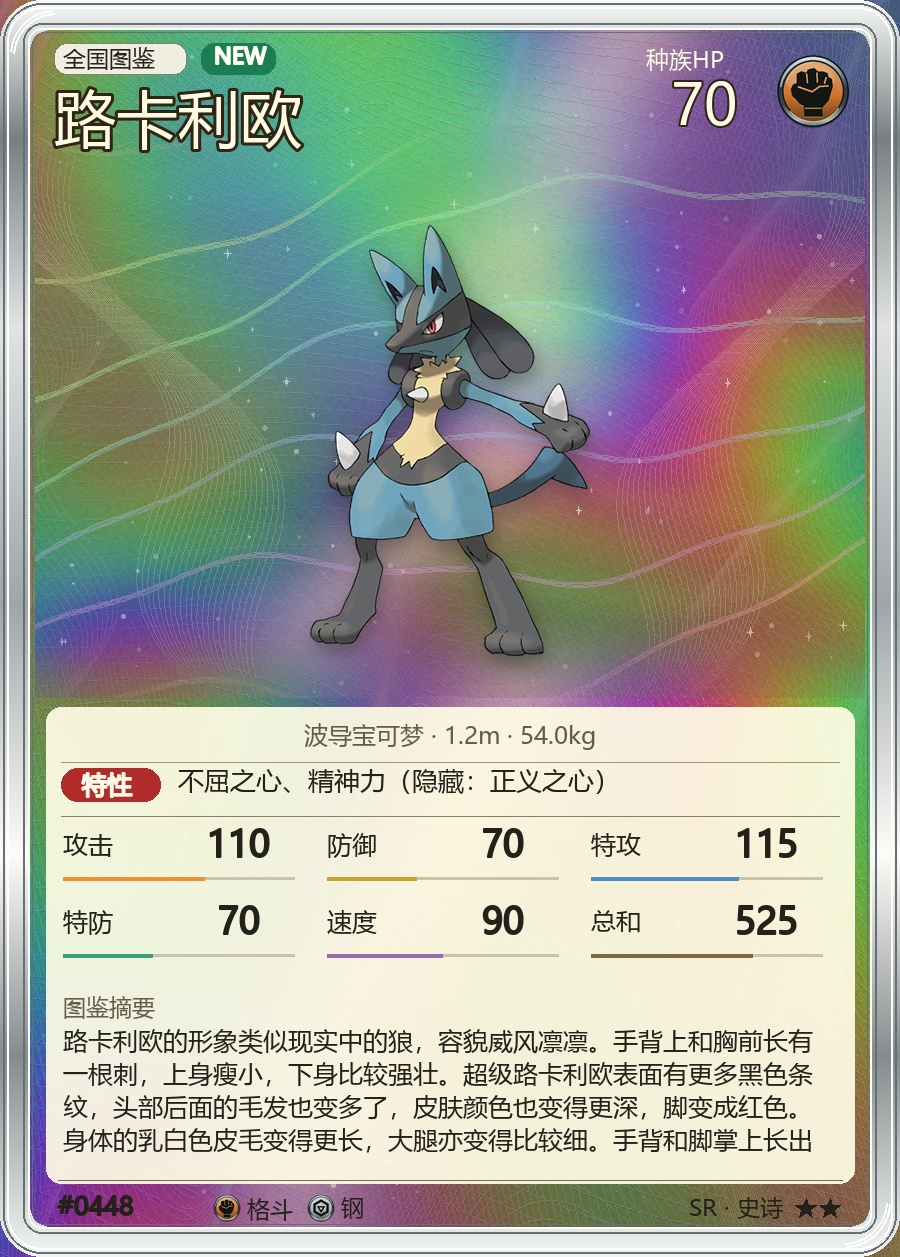
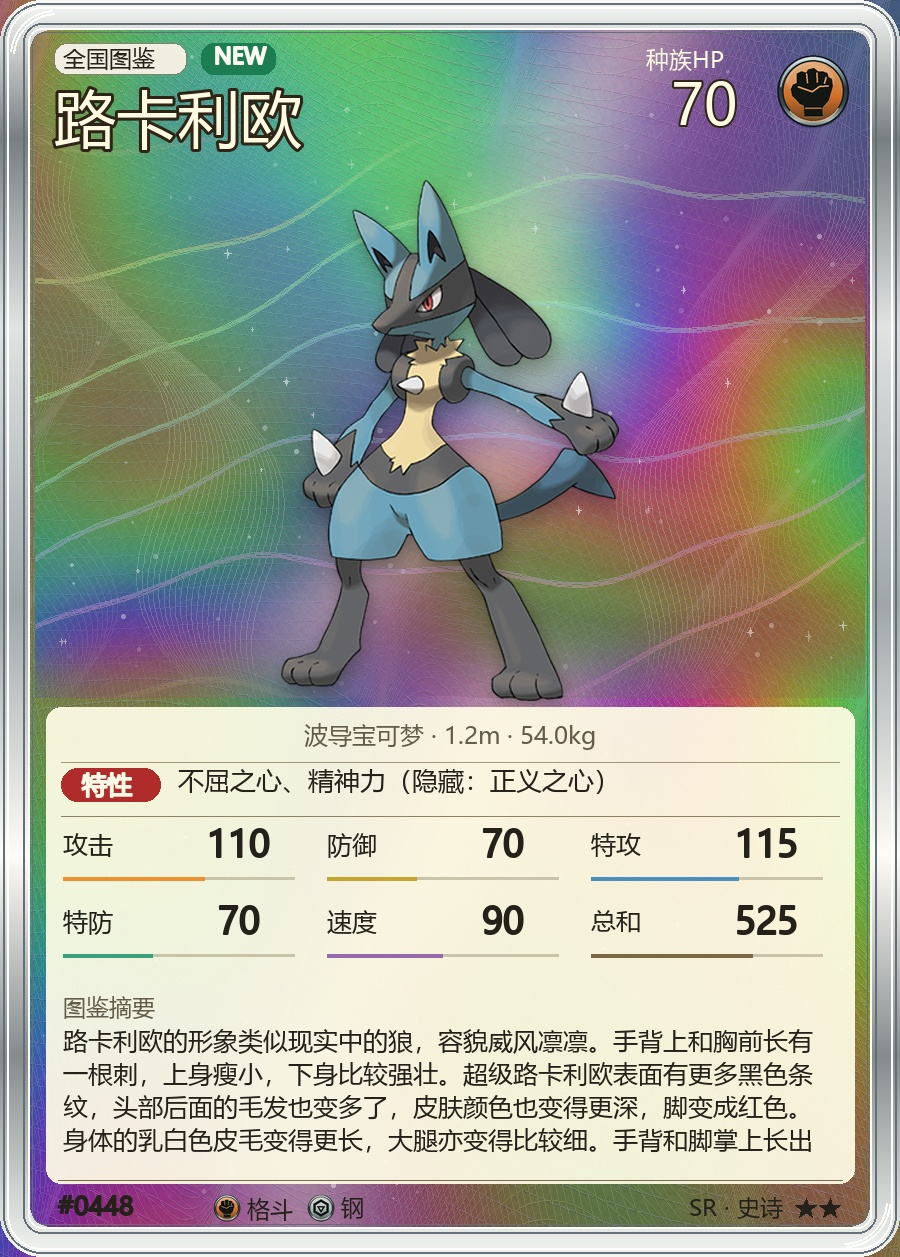
feat: preview card styles and improve TCG portraits

Changed region(s): [[0.3111, 0.1241, 0.6844, 0.5895]]

diff --git a/pages/partner-console/app.js b/pages/partner-console/app.js
@@ -80,7 +80,8 @@ async function refreshView() {
   button.disabled = true;
   button.classList.add("loading");
   try {
-    await (view.refresh ?? view.load)();
+    const refreshed = await (view.refresh ?? view.load)();
+    if (refreshed === false) return;
     state.loaded.add(state.view);
     document.getElementById("pageNotice").hidden = true;
     toast("已更新当前页面", "success");
@@ -961,6 +962,87 @@ function setPath(target, path, value) {
   cursor[parts.at(-1)] = value;
 }
 
+function dailyCardStylePicker(input, field) {
+  if (!field.options.some(([key]) => key === input.value)) input.value = field.default;
+  let saved = input.value;
+  const options = [
+    { key: "classic", title: "现有稀有度卡面", detail: "场景立绘 · 主题边饰 · 稀有度光效" },
+    { key: "tcg", title: "TCG 收藏卡面", detail: "实体卡比例 · 金属包边 · 五档印刷材质" },
+  ];
+  const hintId = `${input.id}-hint`;
+  const picker = el("fieldset", { class: "card-style-picker", "aria-describedby": hintId });
+  const choices = [];
+  const dialogImage = el("img", { alt: "", decoding: "async" });
+  const dialogTitle = el("h2", { id: `${input.id}-preview-title` });
+  const closeButton = el("button", { type: "button", class: "icon-button", "aria-label": "关闭卡面预览", text: "×" });
+  const dialog = el("dialog", { class: "card-style-dialog", "aria-labelledby": dialogTitle.id }, [
+    el("div", { class: "card-style-dialog-head" }, [dialogTitle, closeButton]),
+    dialogImage,
+    el("p", { class: "card-style-dialog-note", text: "五档依次为普通、稀有、史诗、传说与闪光。实际卡面随宝可梦属性、立绘与抽取结果变化。" }),
+  ]);
+  closeButton.addEventListener("click", () => dialog.close());
+  dialog.addEventListener("click", (event) => {
+    const bounds = dialog.getBoundingClientRect();
+    if (event.target === dialog && (event.clientX < bounds.left || event.clientX > bounds.right || event.clientY < bounds.top || event.clientY > bounds.bottom)) dialog.close();
+  });
+  const sync = () => {
+    for (const { key, radio, choice, badge } of choices) {
+      radio.checked = key === input.value;
+      choice.classList.toggle("selected", radio.checked);
+      const active = key === saved;
+      badge.textContent = active ? "使用中" : radio.checked ? "待保存" : "";
+      badge.hidden = !active && !radio.checked;
+      badge.classList.toggle("pending", radio.checked && !active);
+    }
+  };
+  input.hidden = true;
+  picker.append(el("legend", { text: field.label }), input);
+  const gallery = el("div", { class: "card-style-options" });
+  for (const option of options) {
+    const radio = el("input", { type: "radio", name: `${input.id}-preview`, value: option.key, "aria-describedby": `${input.id}-${option.key}-detail` });
+    const badge = el("span", { class: "card-style-badge" });
+    const image = el("img", {
+      src: `./assets/card-styles/${option.key}.jpg`,
+      alt: `${option.title}的普通、稀有、史诗、传说、闪光五种卡面预览`,
+      loading: "lazy", decoding: "async",
+    });
+    const fallback = el("span", { class: "card-style-fallback", hidden: true, text: "预览暂不可用，仍可选择此样式" });
+    const openButton = el("button", { type: "button", class: "card-style-zoom", text: "查看大图", "aria-label": `查看${option.title}大图` });
+    image.addEventListener("error", () => {
+      image.hidden = true;
+      fallback.hidden = false;
+      openButton.dataset.previewUnavailable = "true";
+      openButton.disabled = true;
+    });
+    const label = el("label", { class: "card-style-label" }, [
+      el("span", { class: "card-style-heading" }, [radio, el("strong", { text: option.title }), badge]),
+      el("span", { class: "card-style-art" }, [image, fallback]),
+      el("span", { class: "card-style-description", id: `${input.id}-${option.key}-detail`, text: option.detail }),
+    ]);
+    const choice = el("div", { class: "card-style-option" }, [label, el("div", { class: "card-style-footer" }, [
+      el("span", { text: "普通 / 稀有 / 史诗 / 传说 / 闪光" }), openButton,
+    ])]);
+    radio.addEventListener("input", () => {
+      input.value = radio.value;
+      sync();
+    });
+    openButton.addEventListener("click", () => {
+      dialogTitle.textContent = option.title;
+      dialogImage.src = image.src;
+      dialogImage.alt = image.alt;
+      if (typeof dialog.showModal === "function") dialog.showModal();
+      else window.open(image.src, "_blank", "noopener");
+    });
+    choices.push({ key: option.key, radio, choice, badge });
+    gallery.append(choice);
+  }
+  input.addEventListener("input", sync);
+  input.addEventListener("change", sync);
+  picker.append(gallery, el("p", { id: hintId, class: "card-style-hint", text: `${field.hint} 选择后点击下方「保存配置」生效。` }), dialog);
+  sync();
+  return { element: picker, saved: () => { saved = input.value; sync(); } };
+}
+
 function setupSettings() {
   const form = document.getElementById("settingsForm");
   const grid = document.getElementById("settingsGrid");
@@ -969,8 +1051,11 @@ function setupSettings() {
   const inputs = new Map();
   let saving = false;
   let dirty = false;
-  const saveButton = form.querySelector('[type="submit"]');
+  let cardStylePicker = null;
+  let edits = 0;
+  let loadSequence = 0;
   form.addEventListener("input", () => {
+    edits += 1;
     dirty = true;
     status.textContent = "有尚未保存的修改";
     status.className = "form-status";
@@ -979,6 +1064,7 @@ function setupSettings() {
   const build = (config) => {
     clear(grid);
     inputs.clear();
+    cardStylePicker = null;
     for (const group of SETTINGS_FIELDS) {
       grid.append(el("div", { class: "group-title", text: group.group }));
       for (const field of group.fields) {
@@ -1001,6 +1087,11 @@ function setupSettings() {
         }
         input.id = `setting-${field.key.replaceAll(".", "-")}`;
         inputs.set(field.key, { field, input });
+        if (field.key === "daily_card_style") {
+          cardStylePicker = dailyCardStylePicker(input, field);
+          grid.append(cardStylePicker.element);
+          continue;
+        }
         grid.append(
           el("div", { class: `form-field${field.wide ? " wide" : ""}` }, [
             el("label", { text: field.label, for: input.id }),
@@ -1013,9 +1104,16 @@ function setupSettings() {
   };
 
   const load = async () => {
+    if (saving) return false;
+    if (dirty && !(await confirmAction({ title: "放弃尚未保存的修改？", message: "重新读取已保存的设置，当前修改会被丢弃。", confirmLabel: "放弃修改" }))) return false;
+    if (saving) return false;
+    const sequence = ++loadSequence;
+    const revision = edits;
     status.textContent = "";
     status.className = "form-status";
     const data = await api("/settings");
+    // A slow read must not replace newer edits or a save that started later.
+    if (saving || sequence !== loadSequence || edits !== revision) return false;
     build(data.config ?? {});
     dirty = false;
   };
@@ -1024,8 +1122,12 @@ function setupSettings() {
     event.preventDefault();
     if (saving || !form.reportValidity()) return;
     saving = true;
-    saveButton.disabled = true;
-    reload.disabled = true;
+    loadSequence += 1;
+    // Freeze the submitted values until the response arrives, including preview
+    // radios, so later edits cannot be mistaken for the saved configuration.
+    const disabled = new Map(Array.from(form.querySelectorAll("input, select, button"), (control) => [control, control.disabled]));
+    for (const control of disabled.keys()) control.disabled = true;
+    form.setAttribute("aria-busy", "true");
     const patch = {};
     for (const [key, { field, input }] of inputs) {
       let value;
@@ -1039,6 +1141,7 @@ function setupSettings() {
     try {
       await apiPost("/settings/save", { config: patch });
       dirty = false;
+      cardStylePicker?.saved();
       state.loaded.delete("overview");
       state.loaded.delete("rules");
       status.textContent = "已保存并重新加载抽卡规则。";
@@ -1050,13 +1153,12 @@ function setupSettings() {
       toast(error.message, "error", 6000);
     } finally {
       saving = false;
-      saveButton.disabled = false;
-      reload.disabled = false;
+      for (const [control, wasDisabled] of disabled) control.disabled = wasDisabled || control.dataset.previewUnavailable === "true";
+      form.removeAttribute("aria-busy");
     }
   });
 
-  reload.addEventListener("click", async () => {
-    if (dirty && !(await confirmAction({ title: "放弃尚未保存的修改？", message: "重新读取已保存的设置，当前修改会被丢弃。", confirmLabel: "放弃修改" }))) return;
+  reload.addEventListener("click", () => {
     load().catch((error) => toast(error.message, "error"));
   });
 
@@ -1174,7 +1276,7 @@ async function boot() {
   for (const button of document.querySelectorAll("[data-go]")) button.addEventListener("click", () => showView(button.dataset.go));
   window.addEventListener("hashchange", () => showView(location.hash.slice(1)));
   document.addEventListener("keydown", (event) => {
-    if (event.key !== "/" || event.ctrlKey || event.metaKey || event.altKey || document.body.classList.contains("drawer-open")) return;
+    if (event.key !== "/" || event.ctrlKey || event.metaKey || event.altKey || document.body.classList.contains("drawer-open") || document.querySelector(".card-style-dialog[open]")) return;
     if (["INPUT", "TEXTAREA", "SELECT"].includes(document.activeElement?.tagName)) return;
     event.preventDefault();
     showView("dex");

diff --git a/pages/partner-console/styles/views.css b/pages/partner-console/styles/views.css
@@ -88,6 +88,37 @@ body.drawer-open { overflow:hidden; } .drawer-backdrop { position:fixed; inset:0
 .form-field:has(input[type="checkbox"]) { flex-direction:row; flex-wrap:wrap; align-items:center; min-height:40px; } .form-field:has(input[type="checkbox"]) .hint { flex:1 0 100%; }
 .form-actions { display:flex; align-items:center; flex-wrap:wrap; gap:12px; margin-top:28px; padding-top:20px; border-top:1px solid var(--pk-border); } .form-status { font-size:11px; color:var(--pk-text-muted); } .form-status.error { color:var(--pk-negative); } .form-status.success { color:var(--pk-positive); }
 .group-title { grid-column:1/-1; margin-top:16px; padding-bottom:12px; border-bottom:1px solid var(--pk-border); font-size:13px; font-weight:750; } .group-title:first-child { margin-top:0; }
+.card-style-picker { grid-column:1/-1; min-width:0; border:0; padding:0; margin:0; }
+.card-style-picker>legend { padding:0; margin-bottom:13px; font-size:12px; font-weight:650; color:var(--pk-text-muted); }
+.card-style-options { display:grid; grid-template-columns:repeat(2,minmax(0,1fr)); gap:16px; }
+.card-style-option { min-width:0; overflow:hidden; border:1px solid var(--pk-border-strong); border-radius:16px; background:var(--pk-bg-sunken); transition:border-color var(--pk-dur-fast),box-shadow var(--pk-dur-fast); }
+.card-style-option:hover { border-color:var(--pk-accent); }
+.card-style-option.selected { border-color:var(--pk-accent); box-shadow:0 0 0 3px var(--pk-accent-soft); background:var(--pk-bg-panel); }
+.card-style-option:has(input:focus-visible) { outline:3px solid var(--pk-accent); outline-offset:4px; }
+.card-style-label { display:flex; flex-direction:column; cursor:pointer; padding:16px 16px 12px; gap:13px; }
+.card-style-heading { display:grid; grid-template-columns:auto minmax(0,1fr) auto; gap:9px; align-items:center; }
+.card-style-heading strong { font-size:14px; color:var(--pk-text); line-height:1.5; }
+.card-style-heading input[type="radio"] { margin:0; padding:0; width:17px; height:17px; accent-color:var(--pk-accent); cursor:pointer; box-shadow:none; flex-shrink:0; }
+.card-style-badge { display:inline-flex; white-space:nowrap; border:1px solid color-mix(in srgb,var(--pk-positive) 25%,transparent); border-radius:999px; padding:2px 8px; font-size:10px; font-weight:650; color:var(--pk-positive); background:color-mix(in srgb,var(--pk-positive) 8%,var(--pk-bg-panel)); }
+.card-style-badge.pending { color:var(--pk-accent); border-color:var(--pk-accent); background:var(--pk-accent-soft); }
+.card-style-art { min-height:100px; aspect-ratio:3.05; display:grid; place-items:center; overflow:hidden; border-radius:9px; background:var(--pk-bg-sunken); }
+.card-style-art img { display:block; width:100%; height:100%; object-fit:contain; }
+.card-style-fallback { padding:18px; font-size:11px; text-align:center; color:var(--pk-text-muted); }
+.card-style-description { font-size:11px; font-weight:400; color:var(--pk-text-muted); line-height:1.7; }
+.card-style-footer { display:flex; justify-content:space-between; align-items:center; gap:12px; border-top:1px solid var(--pk-border); padding:10px 16px; }
+.card-style-footer>span { font-size:9px; color:var(--pk-text-faint); line-height:1.8; }
+.card-style-zoom { border:0; padding:3px 0; background:transparent; color:var(--pk-accent); font-size:11px; white-space:nowrap; }
+.card-style-zoom:hover { text-decoration:underline; text-underline-offset:3px; }
+.card-style-hint { margin-top:14px; font-size:11px; color:var(--pk-text-muted); line-height:1.9; }
+.card-style-picker:has(input:disabled) .card-style-label { cursor:wait; }
+.card-style-picker:has(input:disabled) input { cursor:wait; }
+.card-style-dialog { width:min(1260px,calc(100% - 40px)); max-height:calc(100dvh - 40px); overflow:auto; padding:22px; border:1px solid var(--pk-border-strong); border-radius:20px; color:var(--pk-text); background:var(--pk-bg-panel); box-shadow:var(--pk-shadow-md); }
+.card-style-dialog::backdrop { background:#14201c99; backdrop-filter:blur(6px); }
+.card-style-dialog-head { display:flex; align-items:center; justify-content:space-between; gap:16px; margin-bottom:18px; }
+.card-style-dialog-head h2 { font-size:18px; }
+.card-style-dialog>img { display:block; width:100%; height:auto; border-radius:10px; }
+.card-style-dialog-note { margin-top:16px; font-size:11px; color:var(--pk-text-muted); line-height:1.8; }
+@media (max-width:680px) { .card-style-options { grid-template-columns:minmax(0,1fr); } .card-style-label { padding:14px; } .card-style-dialog { width:calc(100% - 24px); max-height:calc(100dvh - 24px); padding:16px; } }
 .empty-state { grid-column:1/-1; padding:40px 20px; text-align:center; color:var(--pk-text-muted); font-size:12px; background:var(--pk-bg-panel); border:1px dashed var(--pk-border-strong); border-radius:16px; } .empty-state .pokeball { display:block; margin:0 auto 18px; opacity:.3; }
 @keyframes drawer-in { from { opacity:0; transform:translateX(35px); } to { opacity:1; transform:none; } } @keyframes hero-in { from { opacity:0; transform:translateY(12px) rotate(-5deg); } to { opacity:1; transform:rotate(-5deg); } }
 @media (max-width:1280px) { .stat-grid { grid-template-columns:repeat(3,minmax(0,1fr)); } .stat { padding:15px 18px; } .stat::before { position:absolute; top:19px; right:17px; width:12px; } .stat-note { margin-top:3px; } .hero-copy { padding-left:27px; } }

diff --git a/tcg_card_tests.py b/tcg_card_tests.py
@@ -13,7 +13,7 @@ os.environ.setdefault("ASTRBOT_ROOT", _runtime.name)
 from PIL import Image, ImageDraw
 from gacha import DrawItem, GachaRules, build_partners
 from pokedex_db import PokedexDB
-from tcg_cards import render_tcg_draw
+from tcg_cards import _paste_art, render_tcg_draw
 from tcg_materials import render_print_surface
 from tcg_symbols import render_energy_icon
 
@@ -53,6 +53,42 @@ class TcgCardTests(unittest.TestCase):
         self.assertTrue(calls[0]['_artwork_shiny'])
         self.assertIsNot(calls[0],value.row)
         self.assertNotIn('_artwork_shiny',value.row)
+
+    def test_portraits_trim_transparency_and_scale_inside_the_existing_box(self):
+        # Different aspect ratios expose both clipping and off-centre placement.
+        box = (40, 50, 600, 420)
+        for content in ((100, 75, 450, 225), (100, 75, 250, 425), (100, 75, 400, 425)):
+            with self.subTest(content=content):
+                source = Image.new('RGBA', (500, 500))
+                source.paste((230, 40, 175, 255), content)
+                before = source.tobytes()
+                composites = []
+                original = Image.Image.alpha_composite
+
+                def record(base, image, dest=(0, 0), source=(0, 0)):
+                    composites.append((image.copy(), dest))
+                    return original(base, image, dest, source)
+
+                with patch.object(Image.Image, 'alpha_composite', record):
+                    _paste_art(Image.new('RGBA', (700, 550)), self.item(), lambda row: source, box, 'R')
+                portrait, (x, y) = composites[-1]
+                self.assertEqual(source.tobytes(), before)
+                self.assertEqual(portrait.getchannel('A').getbbox(), (0, 0, *portrait.size))
+                self.assertLessEqual(portrait.width, box[2])
+                self.assertLessEqual(portrait.height, box[3])
+                self.assertTrue(portrait.width == box[2] or portrait.height == box[3])
+                self.assertEqual(x, box[0] + (box[2] - portrait.width) // 2)
+                self.assertEqual(y, box[1] + (box[3] - portrait.height) // 2)
+                aspect = (content[2] - content[0]) / (content[3] - content[1])
+                self.assertAlmostEqual(portrait.width / portrait.height, aspect, delta=.01)
+
+    def test_fully_transparent_art_shows_the_missing_art_placeholder(self):
+        source = Image.new('RGBA', (475, 475), (200, 80, 40, 0))
+        missing, transparent = (Image.new('RGBA', (900, 800), (245, 239, 225, 255)) for _ in range(2))
+        _paste_art(missing, self.item(), lambda row: None, (87, 199, 726, 437), 'R')
+        _paste_art(transparent, self.item(), lambda row: source, (87, 199, 726, 437), 'R')
+        self.assertEqual(transparent.tobytes(), missing.tobytes())
+        self.assertIsNone(source.getchannel('A').getbbox())
 
     def test_long_form_names_and_visible_text_stay_on_their_canvas(self):
         value = self.item('555:伽勒尔达摩狒狒（达摩模式）','SR')

diff --git a/tcg_cards.py b/tcg_cards.py
@@ -188,17 +188,21 @@ def _paste_art(base, item, loader, box, kind):
     if isinstance(image, bytes):
         with Image.open(io.BytesIO(image)) as opened:
             image = opened.convert("RGBA")
+    if image is not None:
+        image = image.convert("RGBA")
+        bounds = image.getchannel("A").getbbox()
+        image = image.crop(bounds) if bounds else None
     if image is None:
         draw = ImageDraw.Draw(base)
         icon = render_energy_icon(_types(item)[0], 118)
         base.alpha_composite(icon, (x + (width - 118) // 2, y + (height - 118) // 2 - 28))
         _line(draw, x, y + height / 2 + 58, "立绘暂未缓存", 27, MUTED, width, center=True)
         return
-    image = image.convert("RGBA")
-    bounds = image.getchannel("A").getbbox()
-    if bounds:
-        image = image.crop(bounds)
-    image.thumbnail((width, height), Image.Resampling.LANCZOS)
+    # Fill the portrait box after trimming alpha padding, including official
+    # artwork smaller than the box. Limit enlargement of tiny fallback sprites.
+    scale = min(3.0, width / image.width, height / image.height)
+    image = image.resize((max(1, round(image.width * scale)), max(1, round(image.height * scale))),
+                         Image.Resampling.LANCZOS)
     tx, ty = x + (width - image.width) // 2, y + (height - image.height) // 2
     padding = 30
     alpha = Image.new("L", (image.width + padding * 2, image.height + padding * 2))

diff --git a/main.py b/main.py
@@ -198,7 +198,7 @@ def nature_table_text() -> str:
     PLUGIN_ID,
     "Whereis-Alice",
     "宝可梦图鉴：抽卡收藏 + 中文图鉴查询 + 对战分析 + 冠军赛数据",
-    "v1.3.0",
+    "v1.3.1",
 )
 class PokemonPartnerPlugin(Star):
     def __init__(self, context: Context, config: AstrBotConfig = None):

diff --git a/CHANGELOG.md b/CHANGELOG.md
@@ -2,6 +2,12 @@
 
 版本按从新到旧排列。
 
+## v1.3.1（2026-10-29）
+
+- 管理台卡面设置增加两套样式的五档预览、点击放大和使用中／待保存提示，支持浅深色、键盘选择、窄屏与缺图降级。
+- TCG 立绘裁掉透明留白后按比例填充原画窗，保留标题和资料区域；全透明图片显示缺图提示，避免卡面空白。
+- 修复设置保存期间继续编辑被误标为已保存的问题，刷新前统一确认未保存修改；慢读取不会覆盖新编辑或较新的保存结果。
+
 ## v1.3.0（2026-10-29）
 
 - 新增「今日宝可梦卡面风格」配置，保留当前五种卡面作为默认，可切换到独立的 TCG 收藏卡面；插件配置和管理台均可选择。

diff --git a/docs/CONFIGURATION.md b/docs/CONFIGURATION.md
@@ -4,6 +4,8 @@
 
 在 AstrBot 插件配置，或宝可梦图鉴管理台的「研究站设置」中，找到「今日宝可梦卡面风格」。
 
+管理台会同时展示两套卡面的五档预览，点击「查看大图」可放大。选择样式后点击「保存配置」；「待保存」表示尚未生效，「使用中」表示当前已保存的样式。
+
 | 选项 | 卡面 |
 | --- | --- |
 | 现有稀有度卡面（`classic`，默认） | 保留森林、冰晶、紫晶舞台、黑金与珍珠全息五种卡面 |
